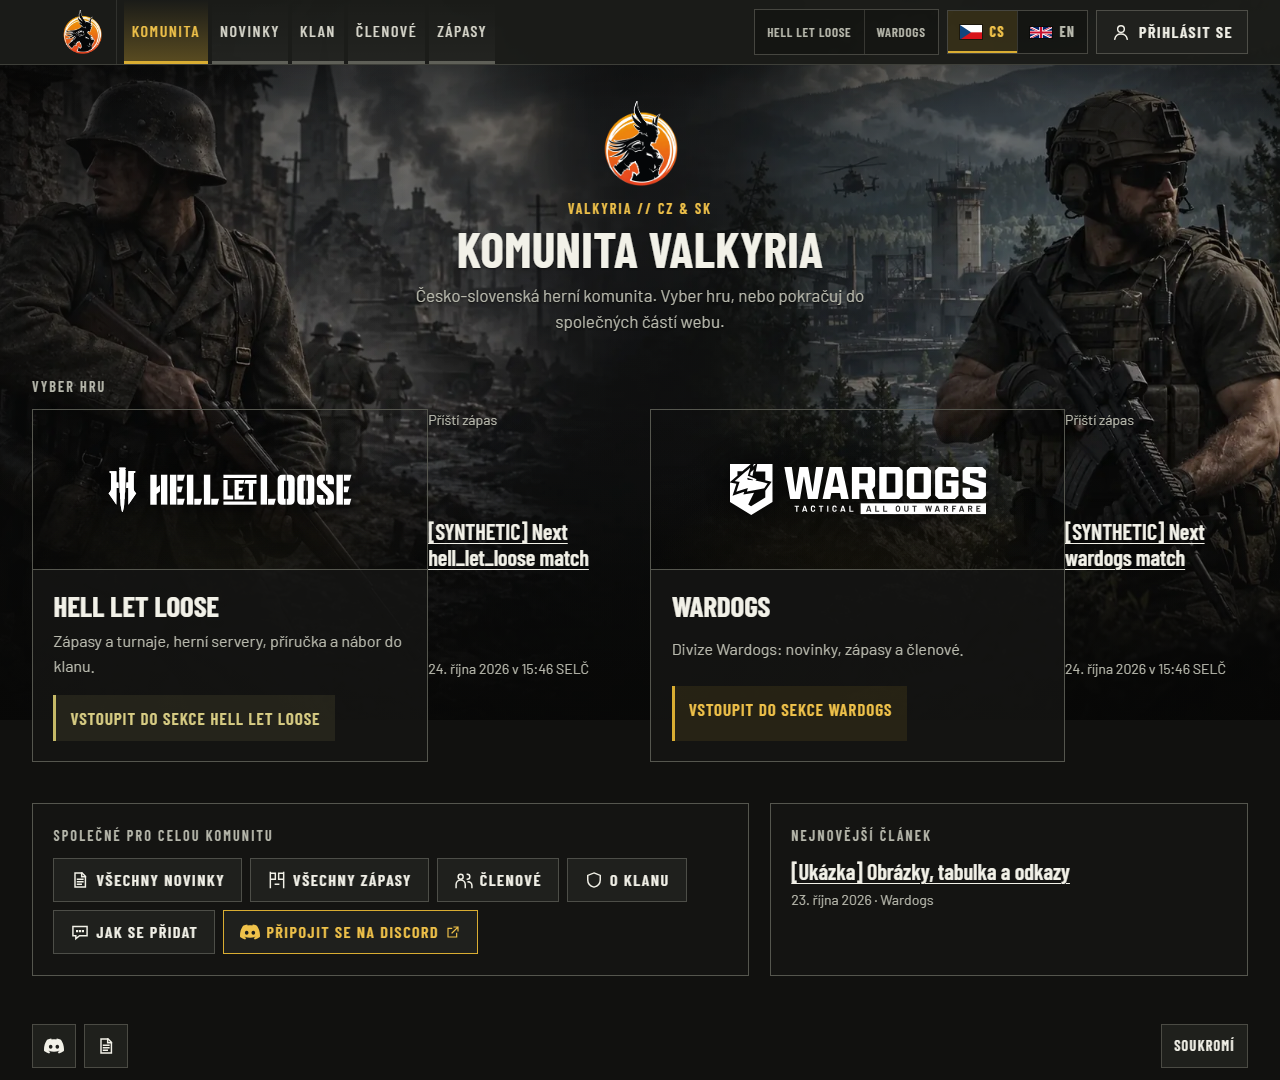
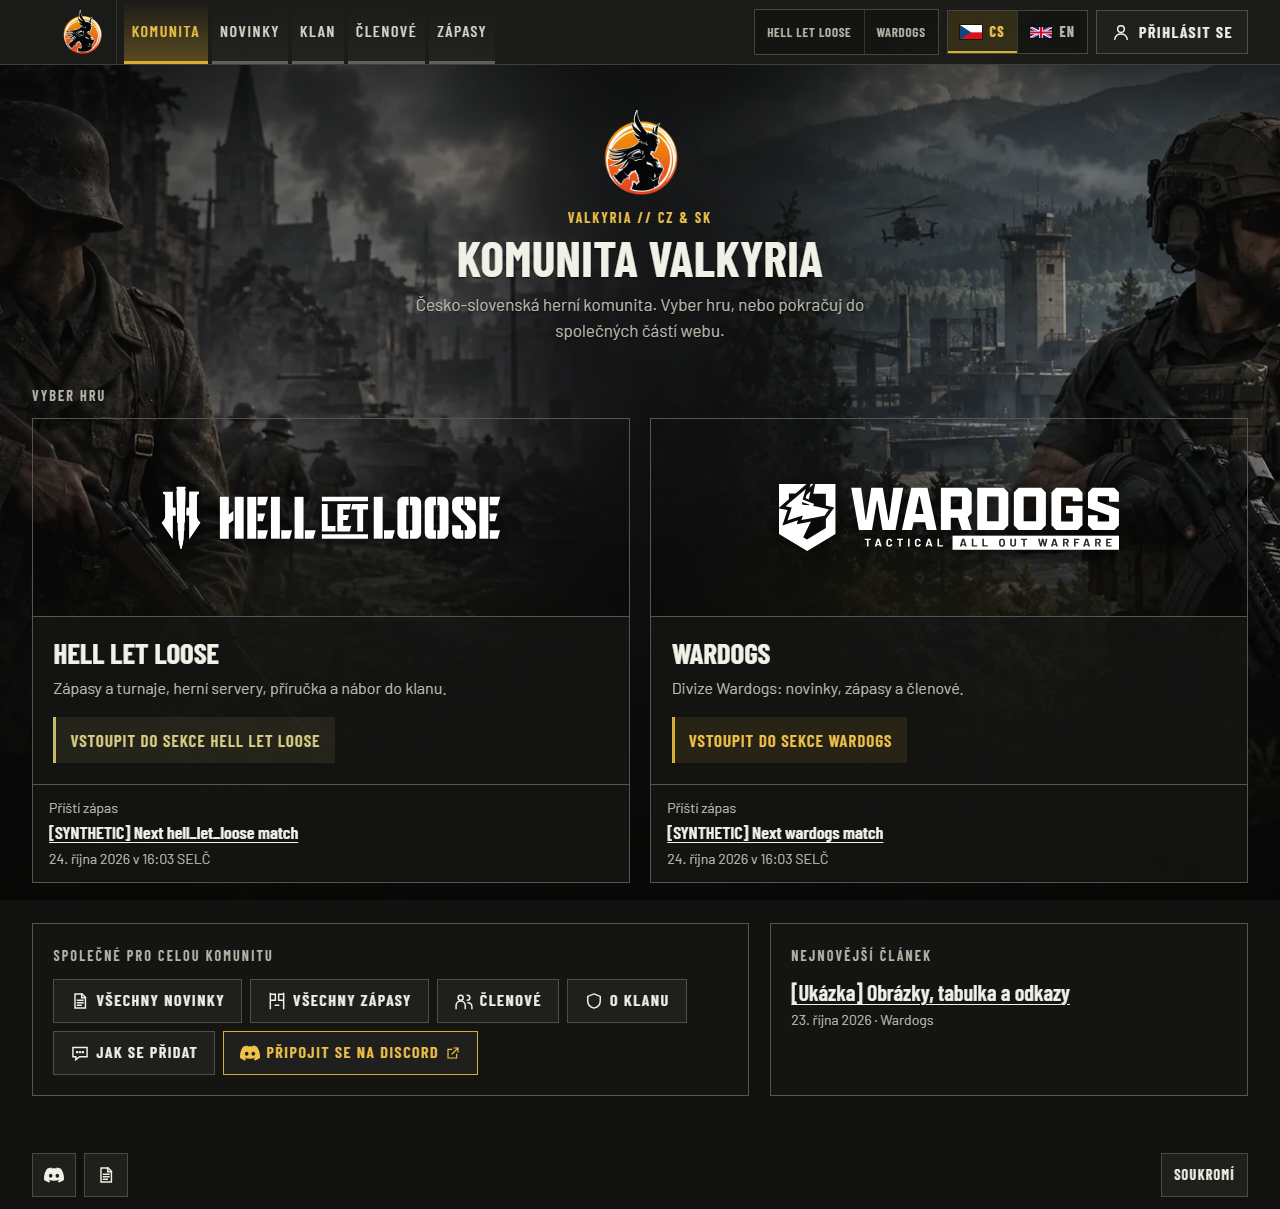
fix: keep hub match strips below game entries

diff --git a/apps/web/e2e/logi-public/matches.spec.ts b/apps/web/e2e/logi-public/matches.spec.ts
@@ -139,9 +139,22 @@ test('an explicitly reviewed identical alias is hidden and its old detail redire
 
 test('both homes select the actual next published Logi match', async ({ page }) => {
   for (const locale of ['cs', 'en'] as const) {
-    await page.goto(`/${locale}`);
-    for (const game of ['hll', 'wardogs']) await expect(page.locator(`[data-hub-next-match="${game}"] a`)).toHaveAttribute('href', `/${locale}/${game}/matches/logi/synthetic-next-${game === 'hll' ? 'hell_let_loose' : 'wardogs'}`);
-    await capture(page, `hub-${locale}-1280`, 'The shared community hub advertises the actual next published match for each game using the same selection as the HLL/Wardogs homes.');
+    for (const width of [1280, 390]) {
+      await page.setViewportSize({ width, height: width === 390 ? 844 : 900 });
+      await page.goto(`/${locale}`);
+      for (const game of ['hll', 'wardogs']) {
+        const next = page.locator(`[data-hub-next-match="${game}"]`);
+        const card = page.locator(`[data-hub-game="${game}"]`);
+        await expect(next.locator('a')).toHaveAttribute('href', `/${locale}/${game}/matches/logi/synthetic-next-${game === 'hll' ? 'hell_let_loose' : 'wardogs'}`);
+        const [a, b] = await Promise.all([card.boundingBox(), next.boundingBox()]);
+        expect(a).not.toBeNull(); expect(b).not.toBeNull();
+        expect(Math.abs(a!.x - b!.x)).toBeLessThan(1);
+        expect(Math.abs(a!.width - b!.width)).toBeLessThan(1);
+        expect(b!.y).toBeGreaterThanOrEqual(a!.y + a!.height - 1);
+      }
+      await expectNoHorizontalOverflow(page);
+      await capture(page, `hub-${locale}-${width}`, 'The shared community hub keeps full-width game entries with their actual next published match in a compact strip below each game.');
+    }
     await page.goto(`/${locale}/hll`);
     await expect(page.locator('[data-hll-strip-item="match"]')).toHaveAttribute('href', `/${locale}/hll/matches/logi/synthetic-next-hell_let_loose`);
     await page.goto(`/${locale}/wardogs`);

diff --git a/apps/web/src/components/hub/hub.module.css b/apps/web/src/components/hub/hub.module.css
@@ -71,6 +71,8 @@
 
 .gameItem {
   display: flex;
+  flex-direction: column;
+  min-width: 0;
 }
 
 .gameCard {
@@ -79,6 +81,7 @@
   --card-wash: rgb(217 173 50 / 0.1);
 
   display: grid;
+  flex: 1;
   grid-template-rows: minmax(160px, 22vh) auto;
   width: 100%;
   border: var(--border-hairline) solid var(--color-border);
@@ -162,6 +165,22 @@
 }
 
 /* ---- Shared destinations and latest post ---- */
+.nextMatch {
+  display: grid;
+  gap: var(--space-1);
+  min-width: 0;
+  margin: 0;
+  padding: var(--space-3) var(--space-4);
+  border: var(--border-hairline) solid var(--color-border);
+  border-top: 0;
+  background: var(--color-panel);
+}
+
+.nextMatch .latestLink {
+  font-size: 1.125rem;
+  overflow-wrap: anywhere;
+}
+
 .lower {
   display: grid;
   grid-template-columns: minmax(0, 3fr) minmax(0, 2fr);

diff --git a/apps/web/src/components/hub/community-hub.tsx b/apps/web/src/components/hub/community-hub.tsx
@@ -83,7 +83,7 @@ export async function CommunityHub({ locale }: { locale: AppLocale }) {
                 </span>
               </Link>
               {upcoming.filter((row) => row.game === game && row.match).map(({ match }) => match ? (
-                <p key={match.href} className={styles.latestItem} data-hub-next-match={game}>
+                <p key={match.href} className={styles.nextMatch} data-hub-next-match={game}>
                   <span className={styles.latestMeta}>{games('hll.strip.nextMatch')}</span>
                   <Link href={match.href} className={styles.latestLink}>{match.title ?? games('hll.strip.versus', { opponent: match.opponent })}</Link>
                   <time className={styles.latestMeta} dateTime={match.startsAt}>{formatDate(match.startsAt, locale, 'dateTimeZone')}</time>

diff --git a/docs/evidence/unified-logi-web-2026-10-24/README.md b/docs/evidence/unified-logi-web-2026-10-24/README.md
@@ -46,6 +46,7 @@ identities, source keys and observations are deliberately invented.
 | Full browser regression | `pnpm test:e2e` | 272 passed; 166 documented opt-in capture/media cases skipped |
 | Connected browser | `CAPTURE_EVIDENCE=1 pnpm --filter @valkyria/web exec playwright test -c playwright.logi.config.ts` | 17 passed; CS/EN at 1440/390, shared game filters, HLL/WDG homes and hub, current archive result, consented lineups, privacy and admin keyboard paths |
 | Final server browser follow-up | Wardogs server and Warcon specs, `--project chromium --workers 1` after final server composition | 19 passed; no assertion or application change needed after a resource-pressure rerun; HLL live-player journeys also passed in the full regression |
+| Hub geometry and navigation | Connected suite plus menu-shell and platform follow-ups after the final card-flow repair | 17 connected, 22 shell and 14 platform cases passed; next-match strips stay below full-width game entries at 1280px and 390px |
 | Independent source review | Match paging/counts, scoped cache, public/private boundaries and admin guards | No actionable findings in reviewed integrated source |
 
 The full browser run initially exposed two measurement assumptions in an existing

diff --git a/docs/integrations/logi/hll-live.md b/docs/integrations/logi/hll-live.md
@@ -47,6 +47,12 @@ used its Logi source. This implementation does not change those runtime settings
    configuration after deployment; source code and successful tests do not
    switch the hosted runtime.
 
+Keep the previous protected runtime configuration with the previous image. Older
+strict source parsers do not accept the new `publishLivePlayers` property: remove
+that property or restore the paired original configuration before an old-image
+rollback. Deploying this code with the existing configuration is compatible;
+activating a new mapping/grant is a separate reviewed configuration change.
+
 ## Read and publication behavior
 
 The HLL live route accepts **no query string**, unlike the other scoped Logi
